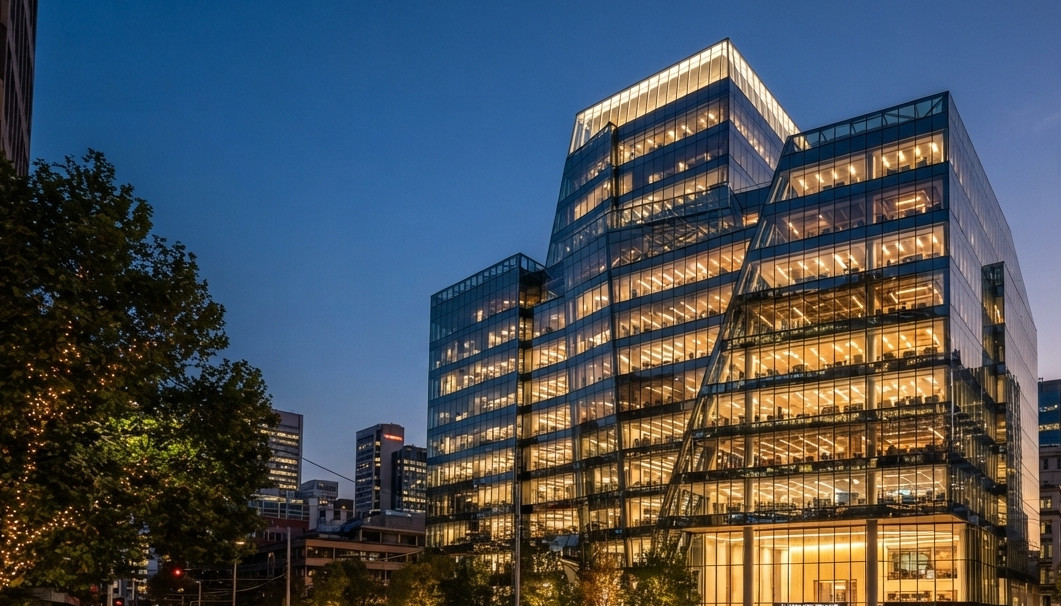
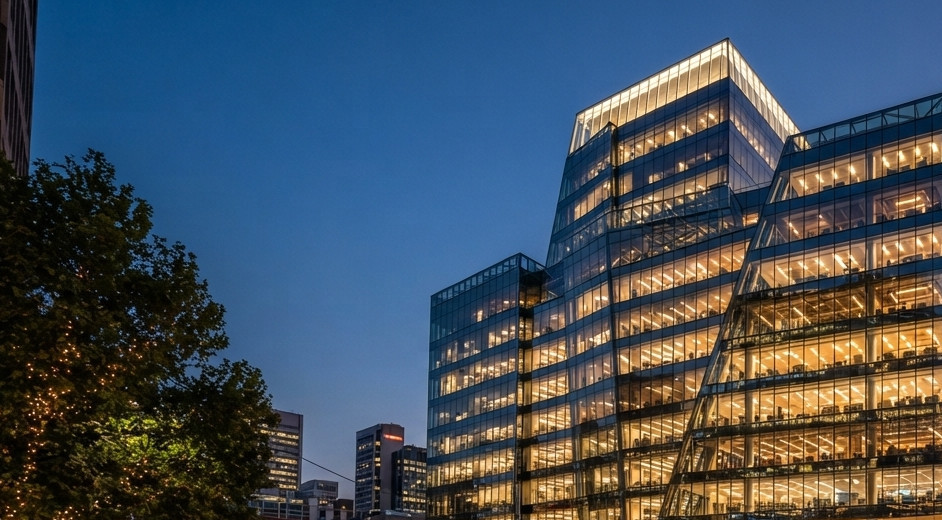
feat(home): integrate enterprise software showcase and industrial IoT progressive visual

diff --git a/frontend/src/pages/HomePage.tsx b/frontend/src/pages/HomePage.tsx
@@ -259,17 +259,22 @@ export const HomePage: React.FC = () => {
       {/* 3. FLAGSHIP PRODUCT: AI SMART BEMS */}
       {/* ========================================================= */}
       <section className="relative py-24 bg-white border-b border-slate-200 overflow-hidden">
-        {/* Modern Glass Corporate Office Architecture strictly in the RIGHT area on Desktop */}
-        <div className="absolute right-0 top-0 bottom-0 w-full lg:w-[48%] z-0 pointer-events-none overflow-hidden">
+        {/* Modern Glass Corporate Office Architecture starting early from center-left across the right side */}
+        <div 
+          className="absolute right-0 top-0 bottom-0 w-full lg:w-[70%] z-0 pointer-events-none overflow-hidden"
+          style={{
+            WebkitMaskImage: 'linear-gradient(to right, transparent 0%, rgba(0,0,0,0.15) 18%, rgba(0,0,0,0.6) 40%, rgba(0,0,0,0.95) 65%, black 100%)',
+            maskImage: 'linear-gradient(to right, transparent 0%, rgba(0,0,0,0.15) 18%, rgba(0,0,0,0.6) 40%, rgba(0,0,0,0.95) 65%, black 100%)'
+          }}
+        >
           <img
             src="/assets/images/glass-office-building.jpeg"
             alt="Smart Glass Commercial Office Architecture"
-            className="w-full h-full object-cover object-[center_right] opacity-90 scale-100"
+            className="w-full h-full object-cover object-right opacity-95 scale-100"
           />
-          {/* Smooth left-edge gradient dissolving into solid white */}
-          <div className="hidden lg:block absolute inset-y-0 left-0 w-48 sm:w-60 bg-gradient-to-r from-white via-white/80 to-transparent"></div>
-          {/* Subtle bottom/top border blending */}
-          <div className="hidden lg:block absolute inset-x-0 bottom-0 h-16 bg-gradient-to-t from-white to-transparent"></div>
+          {/* Subtle bottom/top edge feathering */}
+          <div className="hidden lg:block absolute inset-x-0 bottom-0 h-20 bg-gradient-to-t from-white via-white/40 to-transparent pointer-events-none"></div>
+          <div className="hidden lg:block absolute inset-x-0 top-0 h-16 bg-gradient-to-b from-white via-white/30 to-transparent pointer-events-none"></div>
           {/* Mobile/Tablet readability gradient */}
           <div className="lg:hidden absolute inset-0 bg-gradient-to-r from-white via-white/95 to-transparent"></div>
         </div>
@@ -525,22 +530,32 @@ export const HomePage: React.FC = () => {
       {/* ========================================================= */}
       {/* 5. SPOTLIGHT: INDUSTRIAL IOT BANNER (Deep Navy Accent) */}
       {/* ========================================================= */}
-      <section className="py-20 bg-[#020E26] text-white overflow-hidden relative">
-        <div className="max-w-[1440px] mx-auto px-6 sm:px-10 lg:px-14">
+      <section className="py-24 bg-[#020E26] text-white overflow-hidden relative">
+        {/* Left-anchored Industrial IoT visual with smooth progressive fade into deep navy */}
+        <div 
+          className="absolute left-0 top-0 bottom-0 w-full lg:w-[58%] z-0 pointer-events-none overflow-hidden"
+          style={{
+            WebkitMaskImage: 'linear-gradient(to right, black 0%, rgba(0,0,0,0.95) 45%, rgba(0,0,0,0.5) 70%, rgba(0,0,0,0.15) 88%, transparent 100%)',
+            maskImage: 'linear-gradient(to right, black 0%, rgba(0,0,0,0.95) 45%, rgba(0,0,0,0.5) 70%, rgba(0,0,0,0.15) 88%, transparent 100%)'
+          }}
+        >
+          <img
+            src="/assets/images/indistrial-iot.jpg"
+            alt="Industrial Engineer with IoT Holographic Smart Factory Interface"
+            className="w-full h-full object-cover object-[center_left] opacity-90 scale-100"
+          />
+          {/* Subtle top & bottom edge blend into deep navy */}
+          <div className="absolute inset-x-0 top-0 h-16 bg-gradient-to-b from-[#020E26] via-[#020E26]/40 to-transparent pointer-events-none"></div>
+          <div className="absolute inset-x-0 bottom-0 h-16 bg-gradient-to-t from-[#020E26] via-[#020E26]/40 to-transparent pointer-events-none"></div>
+        </div>
+
+        <div className="relative z-10 max-w-[1440px] mx-auto px-6 sm:px-10 lg:px-14">
           <div className="grid grid-cols-1 lg:grid-cols-12 gap-12 items-center">
-            {/* Left Industrial Visual with Engineer & Tablet */}
-            <div className="lg:col-span-6 relative">
-              <div className="rounded-2xl overflow-hidden shadow-2xl border border-slate-700 aspect-[16/10]">
-                <img
-                  src="https://images.unsplash.com/photo-1581091226825-a6a2a5aee158?auto=format&fit=crop&w=1400&q=80"
-                  alt="Industrial Engineer on Floor"
-                  className="w-full h-full object-cover"
-                />
-              </div>
-            </div>
+            {/* Left Spacer on Desktop to give breathing room for the visual */}
+            <div className="hidden lg:block lg:col-span-5"></div>
 
             {/* Right Industrial IoT Content */}
-            <div className="lg:col-span-6 space-y-6">
+            <div className="lg:col-span-7 space-y-6 lg:pl-6">
               <SectionHeading
                 theme="dark"
                 size="section"
@@ -620,13 +635,17 @@ export const HomePage: React.FC = () => {
               </div>
             </div>
 
-            {/* Right Screen Device Mockups */}
-            <div className="lg:col-span-7">
-              <div className="rounded-2xl border border-slate-200 bg-slate-50 p-6 shadow-xl">
+            {/* Right Multi-Device Floating Showcase (Unboxed, Enterprise Depth) */}
+            <div className="lg:col-span-7 relative flex items-center justify-center">
+              {/* Subtle ambient warm gold & navy depth glow behind the devices */}
+              <div className="absolute inset-0 bg-gradient-to-tr from-[#E5A93C]/15 via-blue-500/10 to-transparent rounded-full filter blur-3xl opacity-70 transform -translate-y-2 pointer-events-none"></div>
+
+              {/* Floating Multi-Device Image without constraining box */}
+              <div className="relative z-10 w-full flex items-center justify-center">
                 <img
-                  src="https://images.unsplash.com/photo-1551288049-bebda4e38f71?auto=format&fit=crop&w=1200&q=80"
-                  alt="Enterprise Dashboard Analytics"
-                  className="rounded-xl w-full h-auto object-cover shadow-sm"
+                  src="/assets/images/enterprise-software.png"
+                  alt="Prabha Technologies Enterprise Software Multi-Device Platform"
+                  className="w-full h-auto max-w-[700px] lg:max-w-none object-contain drop-shadow-[0_24px_48px_rgba(2,14,38,0.12)] hover:scale-[1.01] transition-transform duration-500 ease-out"
                 />
               </div>
             </div>
